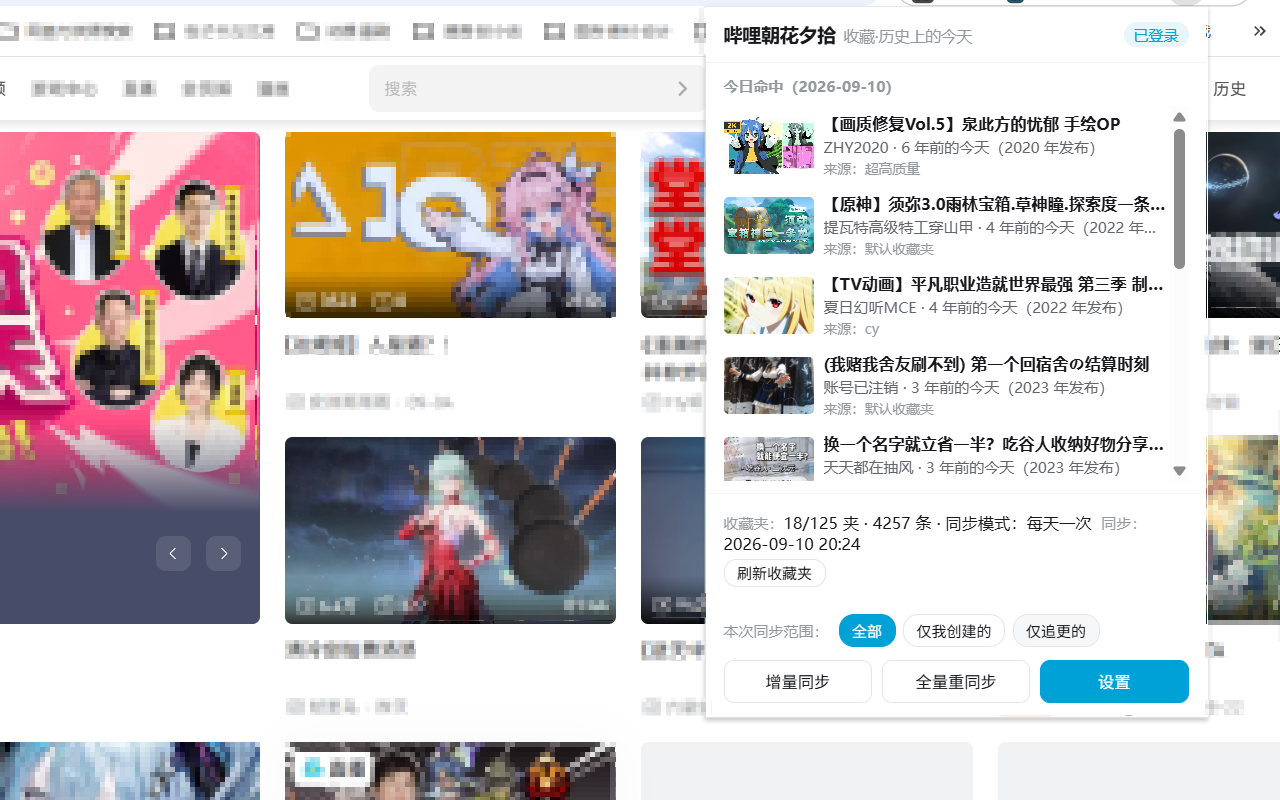
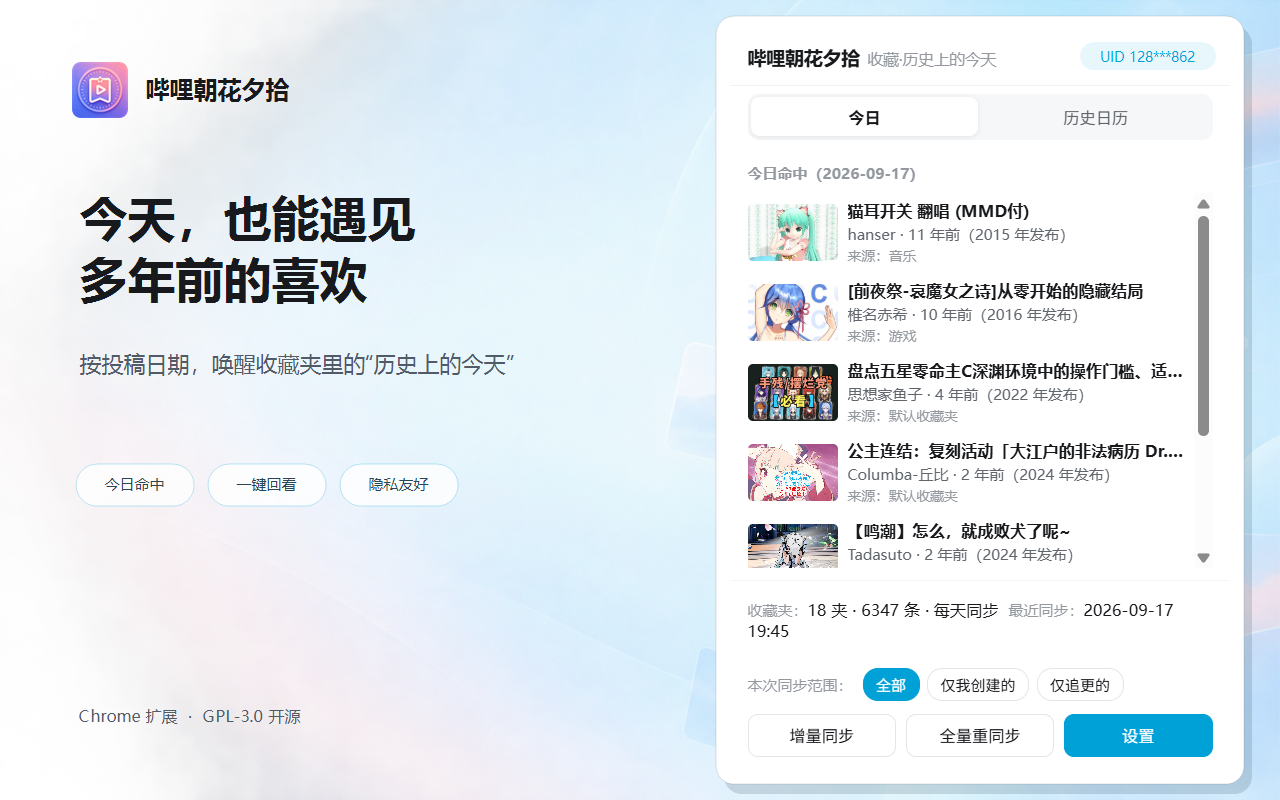
docs: 更新 README 项目截图
- README 引入新的今日回顾与历史日历截图
- 将 .old 目录加入 Git 忽略，保留本地旧素材但不上传
- 清理已归档的旧截图、背景与失效的宣传图生成脚本
- 校验两张新图均为 1280x800，图片引用、diff 及 22/25 项测试通过

diff --git a/README.md b/README.md
@@ -10,7 +10,9 @@
 
 打开 `https://www.bilibili.com/` 时，插件按你收藏夹内**视频投稿的发布时间**与今天（月-日）做匹配——如果若干年前的今天你收藏过某些投稿，右下角会弹出一张"X 年前的今天"卡片，点击可回到视频。
 
-![哔哩朝花夕拾 · 首页浮层提醒](assets/screenshot-1.png)
+![哔哩朝花夕拾 · 今日回顾](assets/screenshot-1.png)
+
+![哔哩朝花夕拾 · 历史日历](assets/screenshot-2.png)
 
 > 非哔哩哔哩官方产品，与 B 站无任何关联；请遵守 B 站用户协议合理使用。
 > 本项目由 **DeepSeek（AI）与 OpenAI Codex 参与设计、实现与维护**，仅供学习交流参考。
@@ -57,7 +59,7 @@
 ```
 extension/          # 扩展本体（manifest / common / background / content / popup / options / icons）
 tools/              # 公共工具自检 selftest.js；同步状态机自检 background-selftest.js
-assets/             # 图标源图与宣传截图（logo.png、screenshot-1.png）
+assets/             # 图标源图与宣传截图（logo.png、screenshot-1.png、screenshot-2.png）
 需求梳理.md / 开发调试说明.md   # 设计与调试文档（本地，不入库）
 ```
 
